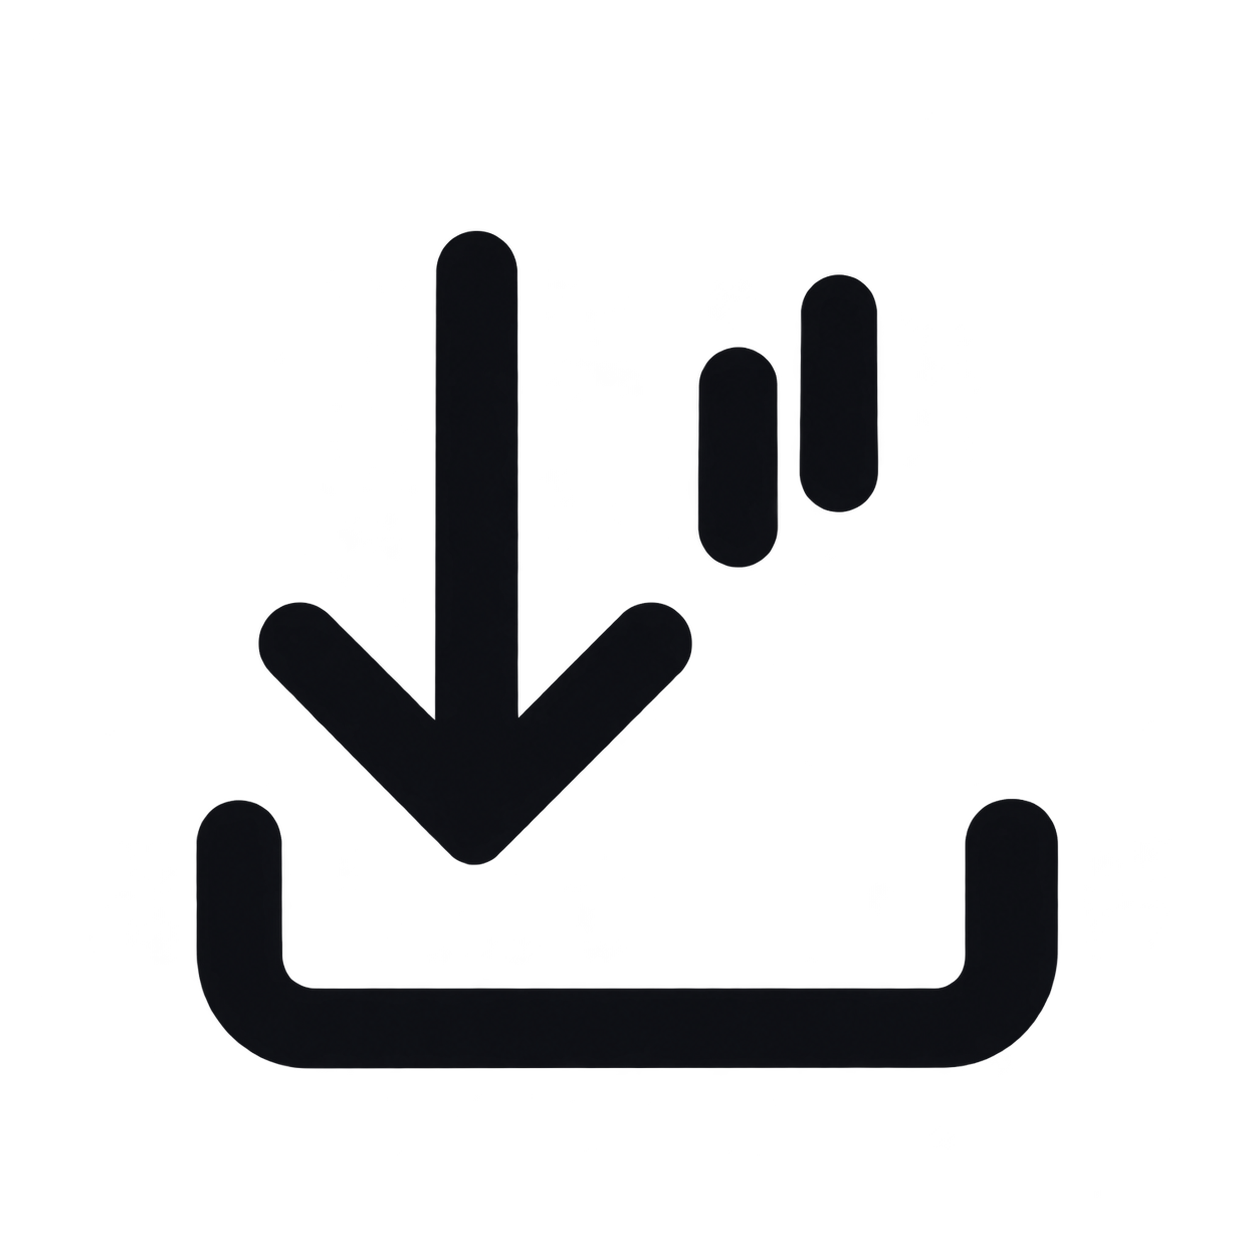
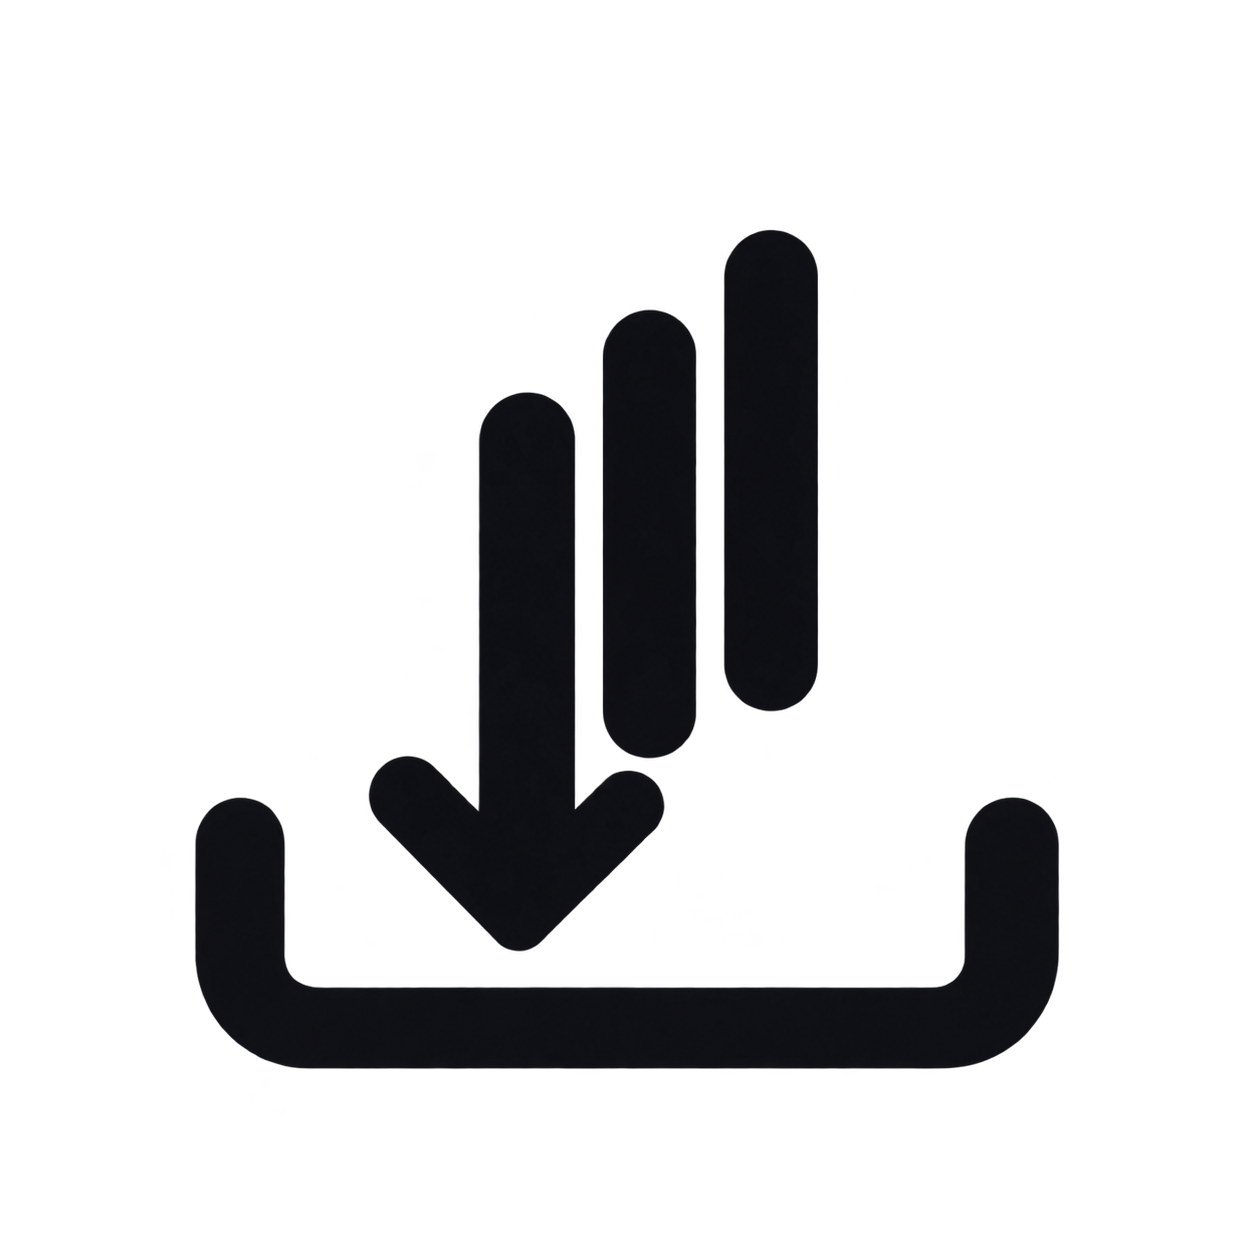
Group download-all shafts tightly with matching lengths

Changed region(s): [[0.1866, 0.1866, 0.7153, 0.7775], [0.2177, 0.6531, 0.2488, 0.7464], [0.1866, 0.622, 0.2177, 0.6531]]

diff --git a/extension/inline.js b/extension/inline.js
@@ -52,7 +52,7 @@ export function mountInlineButtons() {
       img{display:block;pointer-events:none;filter:brightness(0)}
       /* Measured alpha bounds; reproduce with scripts/measure-icons.py. */
       .one img{width:32.267px;height:32.267px;transform:translate(0.013px,-0.579px)}
-      .all img{width:32.005px;height:32.005px;transform:translate(0.000px,-0.574px)}
+      .all img{width:31.931px;height:31.931px;transform:translate(0.000px,-0.573px)}
       :host([data-light-icons]) img{filter:brightness(0) invert(1)}
       .status{position:absolute;right:0;top:44px;display:none;width:220px;padding:8px 10px;background:#fff;border:1px solid #e9e9ee;border-radius:8px;box-shadow:0 2px 8px #0002;font-size:11px;line-height:1.5;overflow-wrap:anywhere}.status:not(:empty){display:block}
     </style><div class="bar"><button class="one" type="button" title="현재 사진·영상 저장" aria-label="현재 항목 저장"><img alt="" aria-hidden="true"></button><button class="all" type="button" title="게시물 전체 저장" aria-label="게시물 전체 저장"><img alt="" aria-hidden="true"></button><span class="status" role="status" aria-live="polite"></span></div>`;

diff --git a/README.md b/README.md
@@ -2,11 +2,11 @@
 
 인스타그램 게시물의 **사진·영상을 한 개씩, 선택한 항목만, 또는 전체 다운로드**하는 Chrome 확장 프로그램입니다.
 
-> **v0.2.3 미리보기 버전** — 일반 게시물·릴스 화면에 아이콘을 표시합니다. 자동 테스트 및 실제 릴스 1건의 MP4 영상·음성 파일을 확인했습니다. Instagram의 화면이나 비공식 데이터 형식이 바뀌면 수집이 실패할 수 있습니다.
+> **v0.2.4 미리보기 버전** — 일반 게시물·릴스 화면에 아이콘을 표시합니다. 자동 테스트 및 실제 릴스 1건의 MP4 영상·음성 파일을 확인했습니다. Instagram의 화면이나 비공식 데이터 형식이 바뀌면 수집이 실패할 수 있습니다.
 
 ## 설치
 
-1. [Releases](https://github.com/hada0127/instagram-media-downloader/releases)에서 `insta-pick-0.2.3.zip`을 내려받아 압축을 풉니다.
+1. [Releases](https://github.com/hada0127/instagram-media-downloader/releases)에서 `insta-pick-0.2.4.zip`을 내려받아 압축을 풉니다.
 2. Chrome 주소창에 `chrome://extensions`를 입력합니다.
 3. 오른쪽 위 **개발자 모드**를 켭니다.
 4. **압축해제된 확장 프로그램을 로드합니다**를 누르고 `manifest.json`이 들어 있는 폴더를 선택합니다.
@@ -62,6 +62,6 @@ npm run check
 npm run package
 ```
 
-패키지: `dist/insta-pick-0.2.3.zip`. 상세 구조는 [설계 문서](docs/architecture.md), 검증 범위는 [검증 기록](docs/verification.md)을 참고하세요.
+패키지: `dist/insta-pick-0.2.4.zip`. 상세 구조는 [설계 문서](docs/architecture.md), 검증 범위는 [검증 기록](docs/verification.md)을 참고하세요.
 
 Chrome API 근거: [scripting](https://developer.chrome.com/docs/extensions/reference/api/scripting), [downloads](https://developer.chrome.com/docs/extensions/reference/api/downloads), [storage](https://developer.chrome.com/docs/extensions/reference/api/storage).

diff --git a/docs/icon-prompts.md b/docs/icon-prompts.md
@@ -1,5 +1,13 @@
 # Toolbar icons
 
+## v0.2.4 — closely grouped equal-length strokes
+
+Built-in image_gen edit; runtime output `extension/assets/download-all.png`. User requested the three shafts to share weight and length, tightly grouped with upward steps. Generated asset visually inspected; pixel-perfect equality is not guaranteed by raster generation.
+
+Exact prompt:
+
+> Use case: precise-object-edit. Edit this transparent download-all icon. Preserve the U-shaped tray exactly and keep exactly one arrowhead. Replace the three vertical strokes with a tightly grouped set of THREE PARALLEL VERTICAL STROKES of IDENTICAL LENGTH and IDENTICAL THICKNESS. The leftmost stroke alone attaches to the existing downward arrowhead. The other two plain strokes have NO arrowheads. All three vertical strokes should be about 400px long and 80px thick on this 1254px canvas, with small 30px clear horizontal gaps between their edges. Leftmost center x=477, middle x=587, rightmost x=697. Leftmost top y=360 bottom y=760, middle top y=285 bottom y=685, rightmost top y=210 bottom y=610: a closely packed upward staircase to the right. Adjust the one existing V arrowhead so it connects only to the leftmost shaft and does not touch the middle or right shaft. The strokes are equally long, not short decorative ticks. Uniform rounded caps and near-black line weight. Preserve tray, canvas, alpha transparency, no text, no background, no shadows. Result must read as a tightly packed multiple-download icon at small size.
+
 Final v0.2.3 refinement: arrow shifted left; both right strokes use the arrow shaft weight. Built-in image_gen, transparent PNG, saved to `extension/assets/download-all.png`. Measured alpha bounds: (196,230,1058,1069); CSS regenerated with `scripts/measure-icons.py`.
 
 Exact final edit prompt:

diff --git a/docs/verification.md b/docs/verification.md
@@ -141,3 +141,7 @@ spaces_remaining: 0
 - npm test: 21 passed, 0 failed. npm run check and npm run package: exit 0, dist/insta-pick-0.2.3.zip.
 - Earlier stepped variant fixture: ego_space_name=harness-qa-browser-headless-insta-final-icons-20261103, spaceId=27, icons=2, loaded=true, opacity=1; finish_ok=true, spaces_remaining=0. Final refinement inspected as an asset, no new browser QA run.
 - Chrome page confirms 0.2.3 enabled after reload click; AXPress returned unverified/accessibility_action_unasserted, so actual new-asset loading in Instagram remains unverified. Refresh Instagram tabs.
+
+## 0.2.4 — close-set shafts
+
+Built-in generated PNG visually inspected: longer, closely grouped right shafts, one arrowhead. Measured alpha bounds (195,230,1059,1069); CSS canvas 31.931px. `npm test`: 21 passed, 0 failed; `npm run check` and `npm run package`: exit 0. Chrome reload changed displayed version from 0.2.3 to 0.2.4, enabled. Instagram rendering of this asset not independently re-tested.

diff --git a/AGENTS.md b/AGENTS.md
@@ -21,3 +21,5 @@
 - v0.2.3 supersedes the double-chevron variant: both icons have ONE arrowhead; all-download adds two short vertical strokes on the upper right, stepped upward. Tray, visual size and placement stay matched.
 
 - Final v0.2.3 refinement: move the all-download arrow left and match the two right strokes to its shaft weight. Re-measure alpha bounds when replacing PNGs.
+
+- v0.2.4 replaces short right ticks with closely grouped, equal-length/weight shaft strokes stepped upward; one arrowhead remains. See docs/icon-prompts.md.

diff --git a/CLAUDE.md b/CLAUDE.md
@@ -21,3 +21,5 @@
 - v0.2.3 supersedes the double-chevron variant: both icons have ONE arrowhead; all-download adds two short vertical strokes on the upper right, stepped upward. Tray, visual size and placement stay matched.
 
 - Final v0.2.3 refinement: move the all-download arrow left and match the two right strokes to its shaft weight. Re-measure alpha bounds when replacing PNGs.
+
+- v0.2.4 replaces short right ticks with closely grouped, equal-length/weight shaft strokes stepped upward; one arrowhead remains. See docs/icon-prompts.md.
